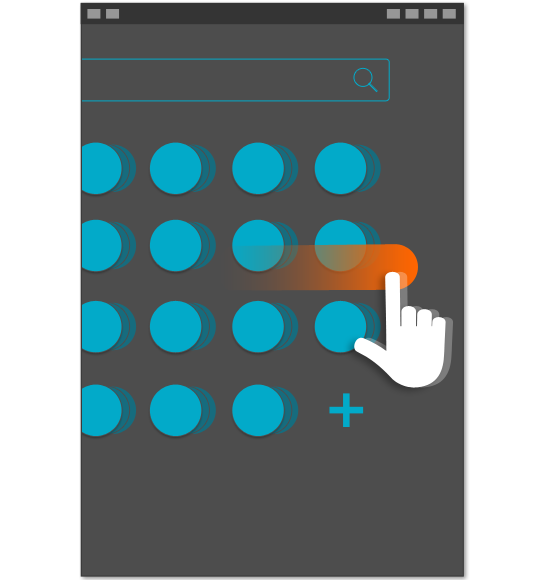
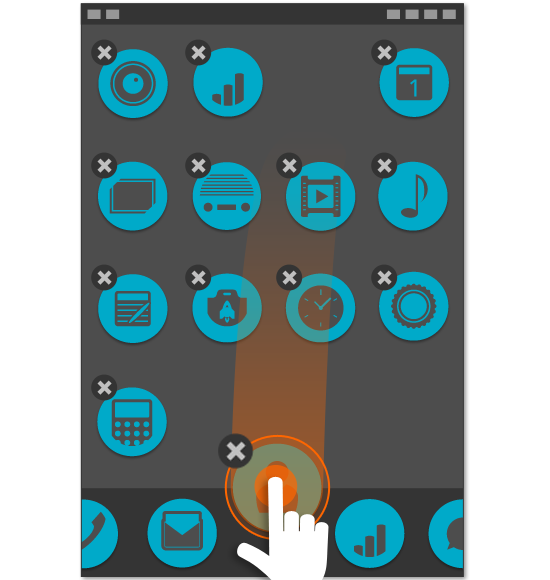
Bug 901041 - Remove 'swipe left' screen in tutorial (as part of the first run experience)

diff --git a/ftu/js/tutorial.js b/ftu/js/tutorial.js
@@ -8,25 +8,22 @@ var tutorialSteps = {
     key: 'tutorial-step1',
     image: 'css/images/tutorial/1.png'
   },
+  // On bug 901041 we erased the real second step, but didn't change the strings
+  // To be solved on bug 902487
   2: {
     hash: '#step2',
-    key: 'tutorial-step2',
+    key: 'tutorial-step3',
     image: 'css/images/tutorial/2.png'
   },
   3: {
     hash: '#step3',
-    key: 'tutorial-step3',
+    key: 'tutorial-step4',
     image: 'css/images/tutorial/3.png'
   },
   4: {
     hash: '#step4',
-    key: 'tutorial-step4',
-    image: 'css/images/tutorial/4.png'
-  },
-  5: {
-    hash: '#step5',
     key: 'tutorial-step5',
-    image: 'css/images/tutorial/5.png'
+    image: 'css/images/tutorial/4.png'
   }
 };
 

diff --git a/ftu/css/style.css b/ftu/css/style.css
@@ -1139,7 +1139,7 @@ i.hack-first-child {
 }
 
 #tutorial-screen .step-state:before {
-  width: calc(100% / 5);
+  width: calc(100% / 4);
   background: #FFFFFF;
 }
 
